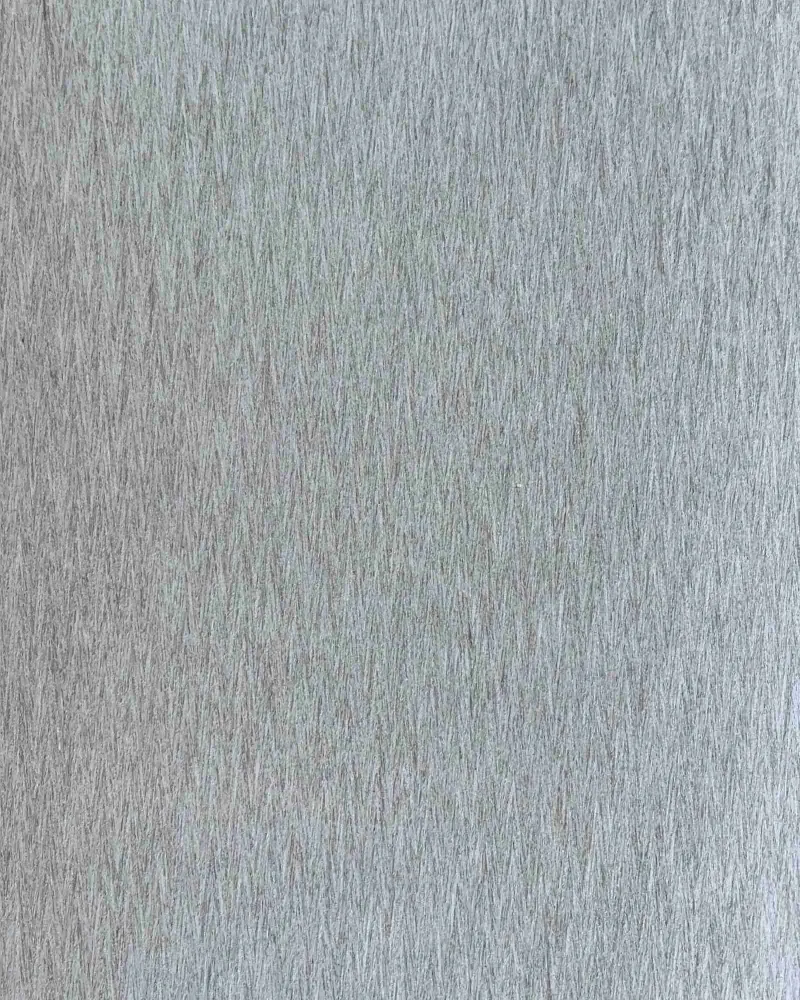
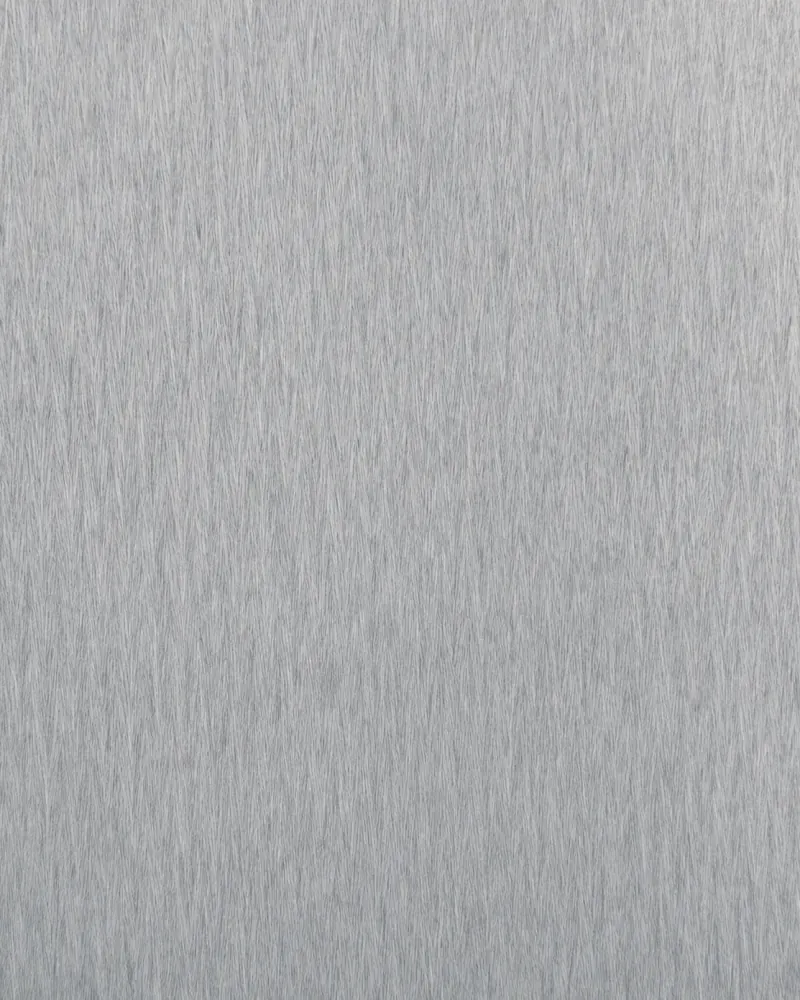
Replace the Berlin Arrow Slate swatch with a new photograph
The new sheet shows the fine, brushed grey grain evenly lit. It is
cropped to 4:5 and the address carries ?v=2 so browsers drop the old
picture. The hi-res sheet and room views are unchanged.

diff --git a/src/data.js b/src/data.js
@@ -842,7 +842,7 @@ export const PRODUCTS = [
     tones: ['light', 'cool'],
     species: 'Engineered Wood',
     idSpecies: 'Kayu Rekayasa',
-    image: '/assets/image/BERLIN ARROW SLATE.webp',
+    image: '/assets/image/BERLIN ARROW SLATE.webp?v=2',
     hiResImage: '/assets/hires/BERLIN ARROW SLATE.png',
     bestFor: 'Modern minimalist cabinetry, architectural panels, commercial interiors',
     idBestFor: 'kabinet minimalis modern, panel arsitektural, interior komersial',
